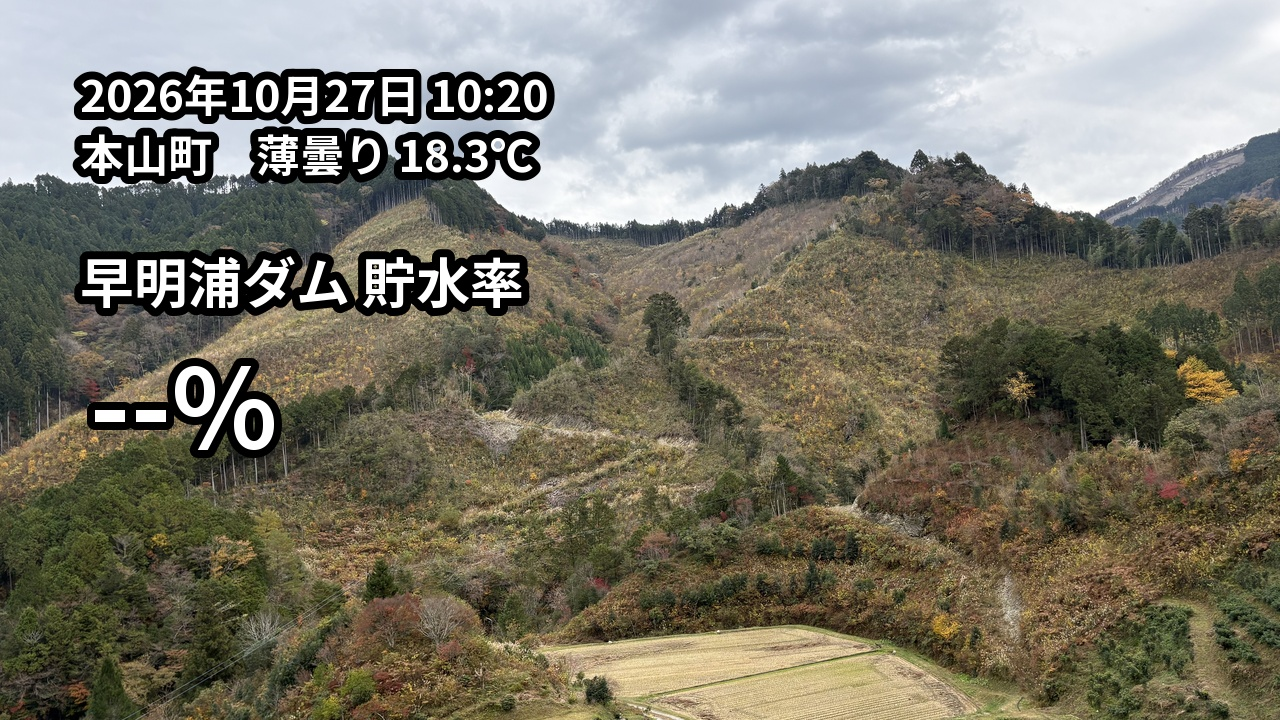
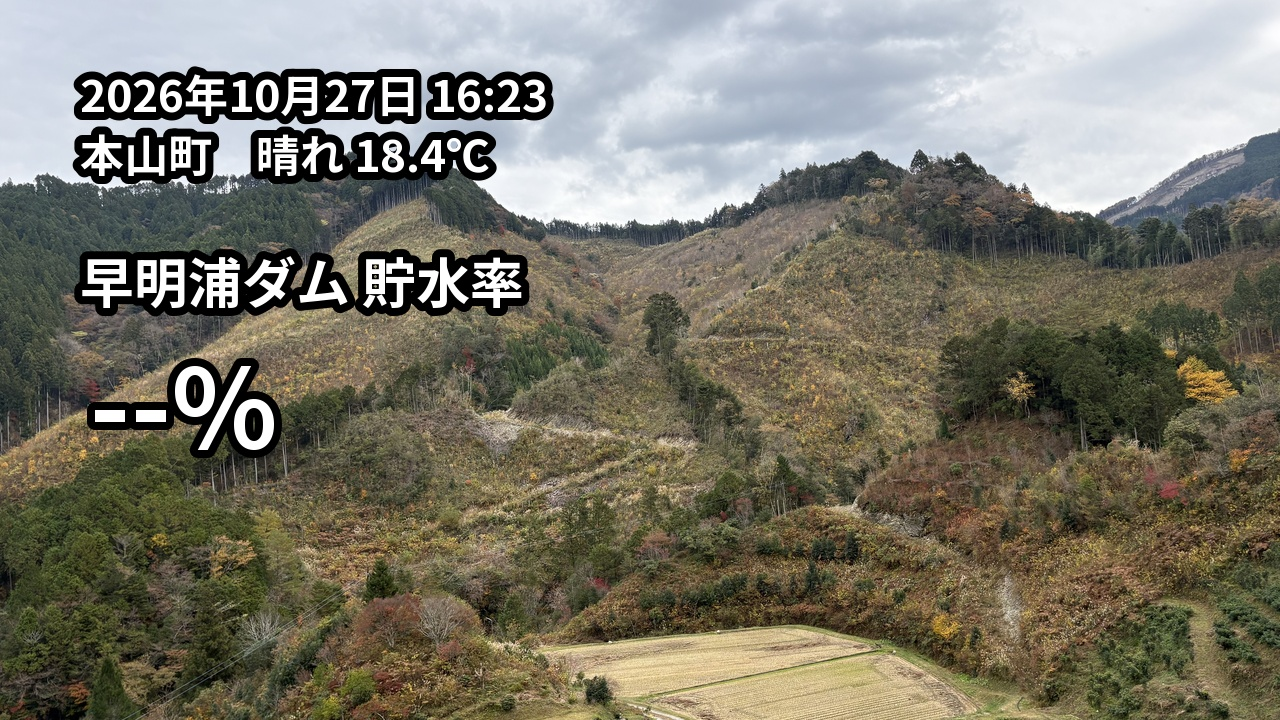
Update daily image

Changed region(s): [[0.1875, 0.1528, 0.4375, 0.275], [0.4062, 0.0917, 0.4375, 0.1528], [0.3438, 0.0917, 0.375, 0.1528]]

diff --git a/index.html b/index.html
@@ -10,6 +10,6 @@
   </style>
 </head>
 <body>
-  <img src="result.jpg?v=202610271020" alt="早明浦ダム 貯水率" />
+  <img src="result.jpg?v=202610271623" alt="早明浦ダム 貯水率" />
 </body>
 </html>
